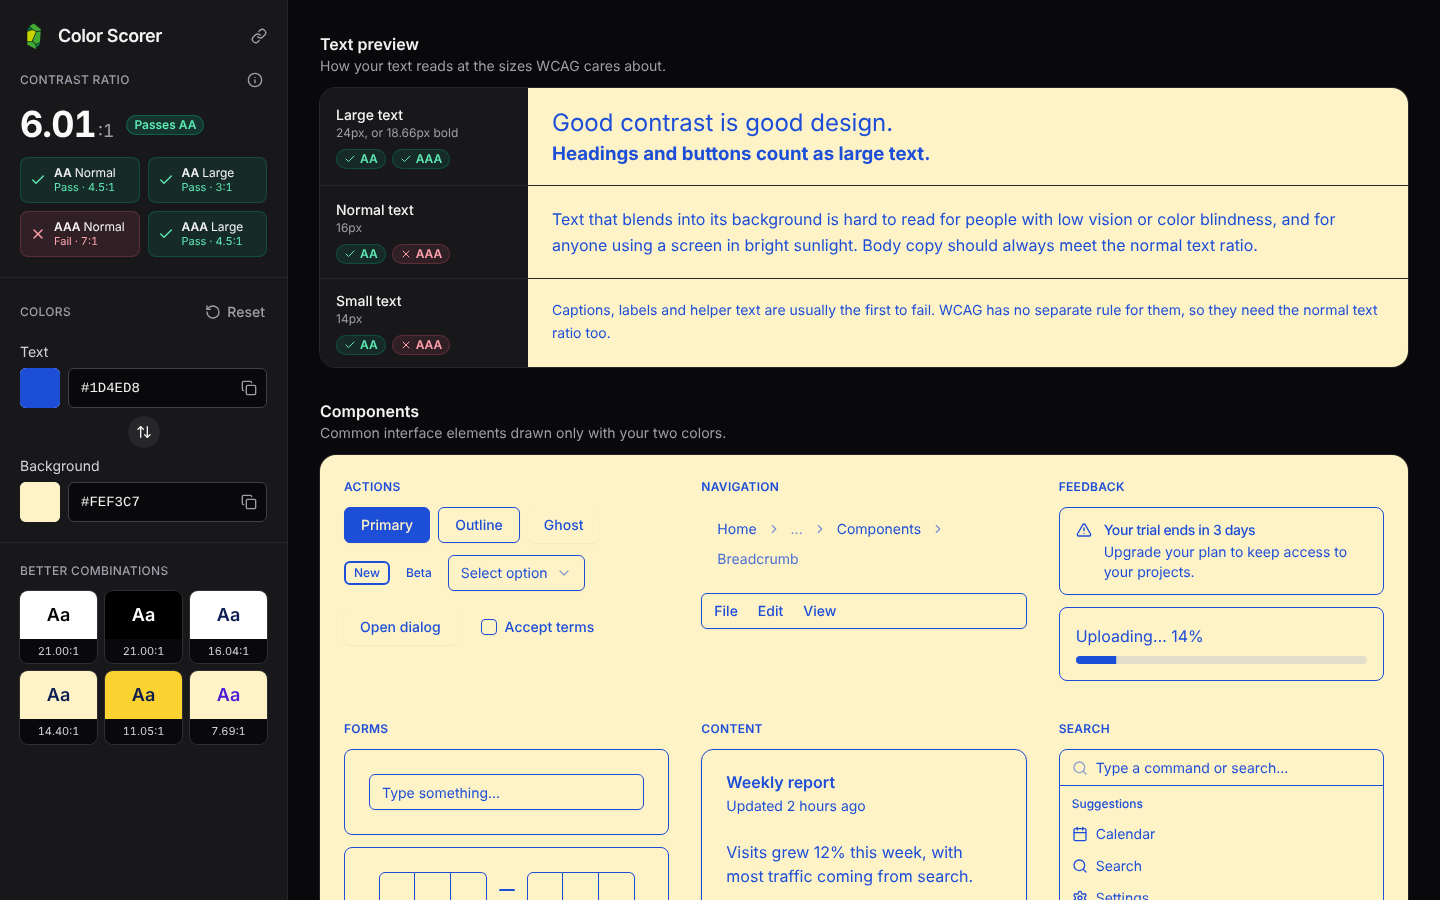
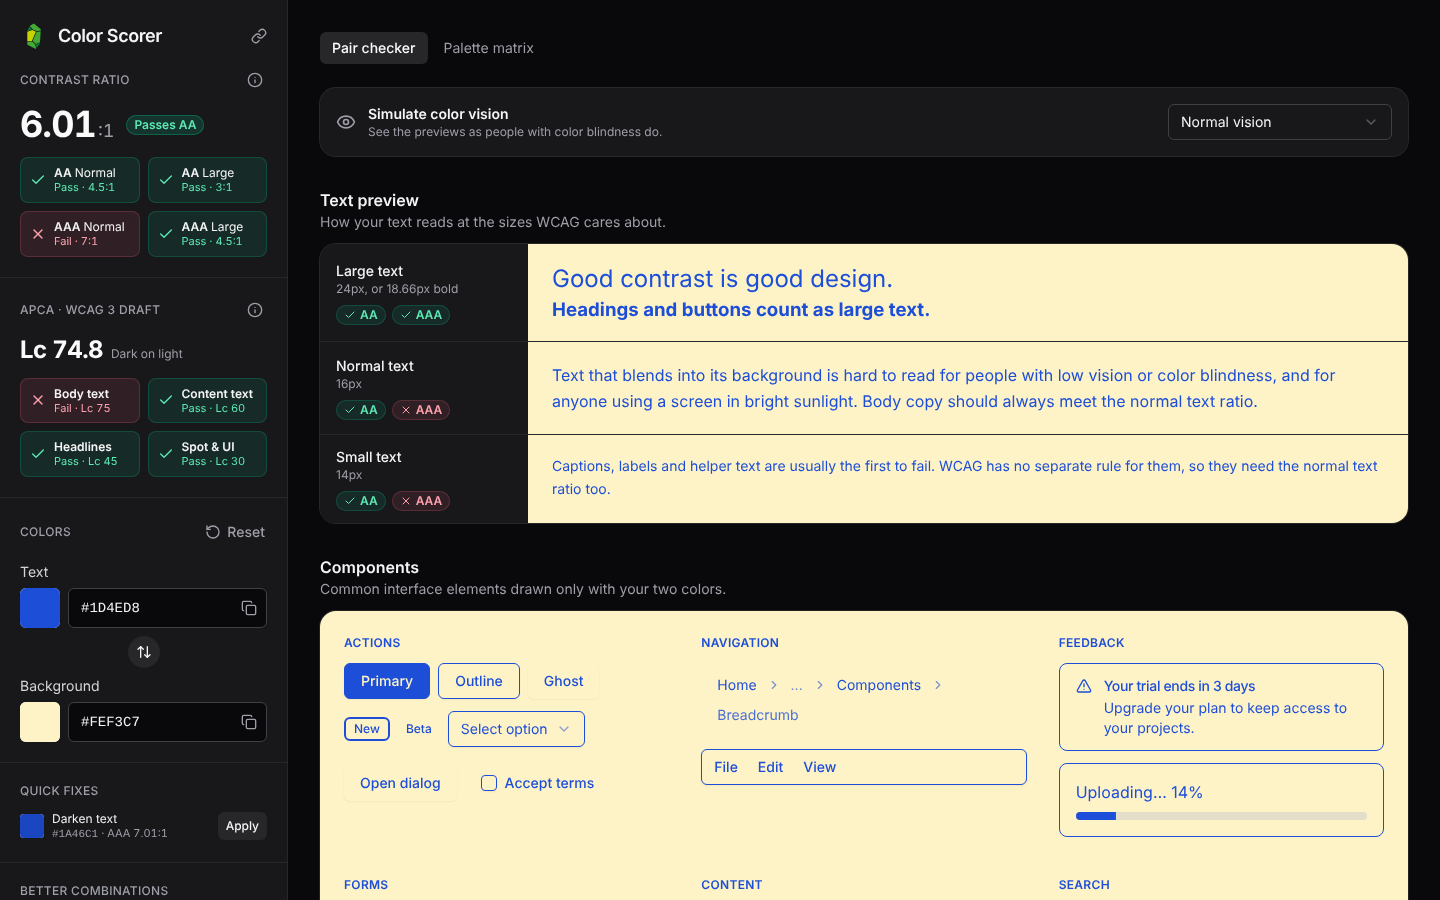
docs: document apca, quick fixes, vision simulation and the palette matrix

diff --git a/README.md b/README.md
@@ -8,15 +8,23 @@ Color Scorer is a web application built with React and TypeScript that helps des
 
 ![Desktop screenshot](docs/screenshots/desktop.png)
 
+---
+
+![Palette matrix screenshot](docs/screenshots/palette.png)
+
 ## Features
 
 - Compare a text and a background color for accessibility compliance
-- Contrast ratio with pass/fail checks for AA and AAA, for normal and large text
+- WCAG 2 contrast ratio with pass/fail checks for AA and AAA, for normal and large text
+- APCA lightness contrast (the method drafted for WCAG 3) side by side, with a note when the two disagree
+- Quick fixes: the smallest lightness change that reaches AA or AAA while keeping the hue
+- Color blindness simulation (protanopia, deuteranopia, tritanopia and achromatopsia) with the contrast as seen
+- Palette matrix: paste a palette (hex list, CSS variables or design tokens) and check every pair at once
 - Text preview at the sizes WCAG cares about (24px, 16px and 14px)
 - Common UI components drawn only with your two colors
 - Color pickers with hex input, copy buttons and transparency support
 - Suggestions for better color combinations, one click to apply
-- Shareable links: the colors are kept in the URL (`?text=1d4ed8&bg=fef3c7`)
+- Shareable links: colors, palettes and pages are kept in the URL (`?text=1d4ed8&bg=fef3c7`)
 - Works on desktop and mobile
 - A small easter egg if you pick a Pantone Color of the Year
 
@@ -36,12 +44,29 @@ The contrast ratio follows the [WCAG 2.x definition](https://www.w3.org/TR/WCAG2
 
 Large text is 24px (18pt) and up, or 18.66px (14pt) bold and up.
 
+### APCA
+
+[APCA](https://github.com/Myndex/apca-w3) is the contrast method being drafted for WCAG 3. Instead of a ratio it gives a lightness contrast (Lc) from 0 to about 106, and it is polarity aware: dark text on a light background is scored differently than light text on a dark one. Color Scorer uses the APCA-W3 0.0.98G constants and shows these simplified levels:
+
+| Lc  | Use                                         |
+| --- | ------------------------------------------- |
+| 75  | Body text, 18px regular and up              |
+| 60  | Content text, 24px regular or 16px bold     |
+| 45  | Headlines, 36px regular or 24px bold        |
+| 30  | Spot text and UI: placeholders, icons, etc. |
+
+WCAG 2 tends to overrate contrast between dark colors and underrate light text on saturated mid tones, so the app points out pairs where the two methods disagree. APCA is still a draft; WCAG 2 is the standard to meet today.
+
+### Color blindness simulation
+
+Colors are simulated with the matrices from Machado, Oliveira and Fernandes (2009) at full severity, applied in linear RGB. Because the preview only uses the two picked colors, simulating the pair is exact, and the contrast is measured again on the simulated colors.
+
 ## Architecture
 
 The application uses a modern React architecture with the following key components:
 
 - **State Management**: TanStack Store for efficient state updates (`src/store`)
-- **Color Logic**: Framework free, unit tested helpers for parsing colors, contrast and suggestions (`src/lib`)
+- **Color Logic**: Framework free, unit tested helpers for parsing colors, WCAG and APCA contrast, fixes, vision simulation, palettes and suggestions (`src/lib`)
 - **UI Components**: Leveraging Shadcn for accessible UI components. Inside the preview the theme tokens are remapped to the tested colors, so every component uses only that pair
 
 ## Run Locally
